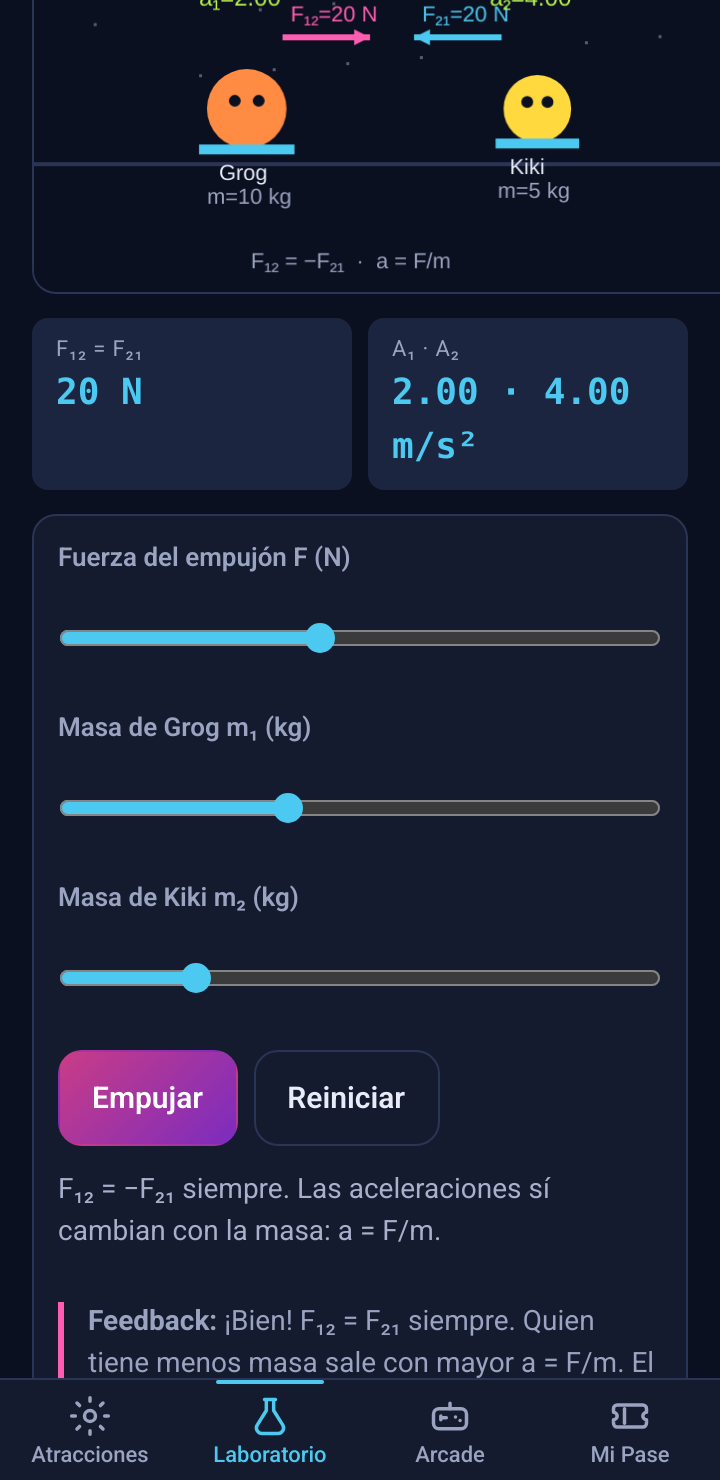
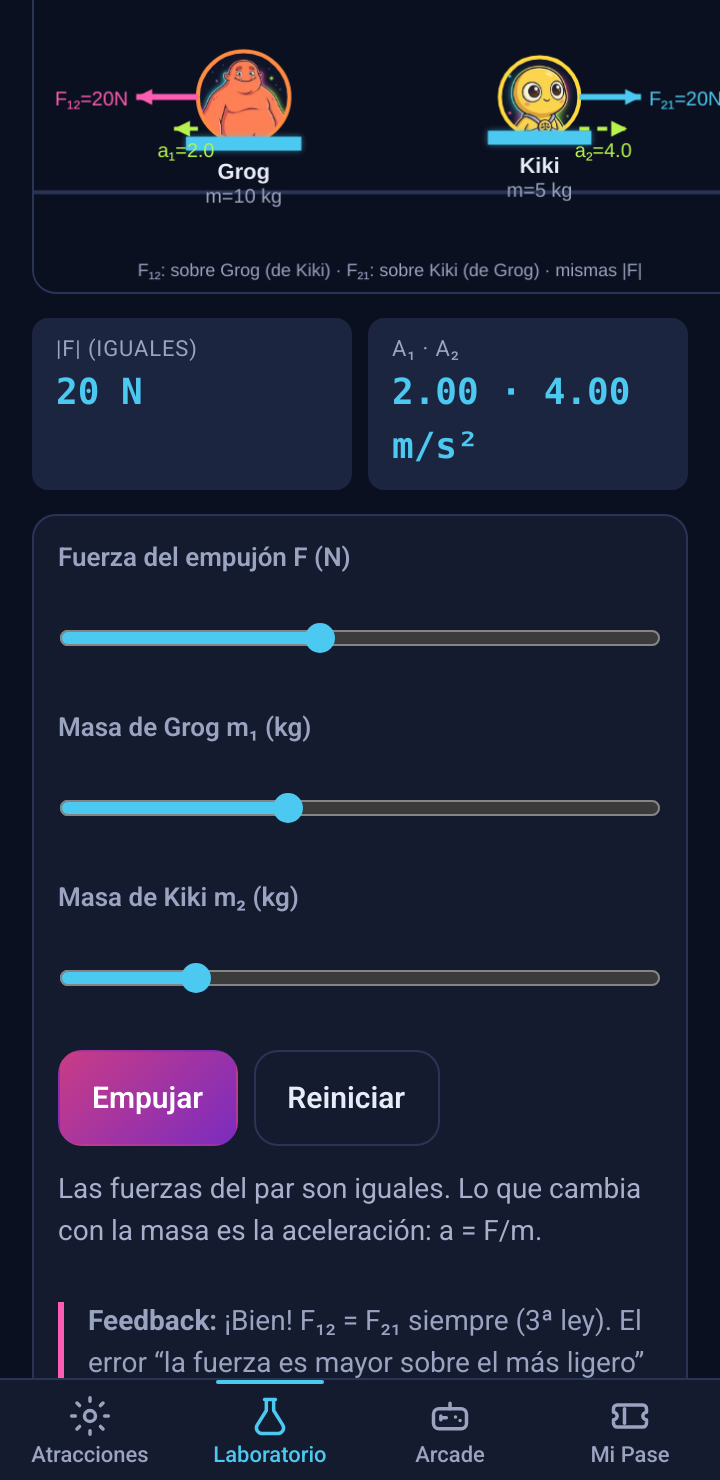
F7: fix vectores par acción-reacción
Fuerzas ancladas al cuerpo y hacia afuera (empuje), misma |F|; a en lima
dashed ∝ F/m; bustos Grog/Kiki en círculo; leyenda F₁₂/F₂₁; feedback
contradice “más fuerza sobre el liviano”; sin clip a 360px.

diff --git a/src/modules/laboratorio/sims/par-accion-reaccion.js b/src/modules/laboratorio/sims/par-accion-reaccion.js
@@ -3,18 +3,21 @@ import { playSuccess, playFail, playStar } from '../../../audio/engine.js';
 
 /**
  * sim-par-accion-reaccion — 3ª ley de Newton + vectores (PF2 / M1).
- * Grog y Kiki en hover-skates: fuerzas iguales y opuestas; a = F/m distinta si m distinta.
+ * Grog (izq) y Kiki (der) se empujan: fuerzas iguales y opuestas hacia AFUERA;
+ * a = F/m distinta si las masas difieren.
  * @param {HTMLElement} container
  * @returns {() => void}
  */
 export function mountParAccionReaccion(container) {
+  const base = import.meta.env.BASE_URL || '/';
+
   container.innerHTML = `
     <div class="sim-layout">
-      <div class="sim-canvas-wrap" style="min-width:360px">
+      <div class="sim-canvas-wrap sim-canvas-wrap--tall" style="min-width:360px;aspect-ratio:16/12;max-height:48vh">
         <canvas data-canvas aria-label="Par acción-reacción: Grog y Kiki se empujan"></canvas>
       </div>
       <div class="hud-stats">
-        <div class="hud-stat"><div class="hud-stat__label">F₁₂ = F₂₁</div><div class="hud-stat__value" data-f>20 N</div></div>
+        <div class="hud-stat"><div class="hud-stat__label">|F| (iguales)</div><div class="hud-stat__value" data-f>20 N</div></div>
         <div class="hud-stat"><div class="hud-stat__label">a₁ · a₂</div><div class="hud-stat__value" data-a>2.00 · 4.00 m/s²</div></div>
       </div>
       <div class="sim-controls">
@@ -44,7 +47,7 @@ export function mountParAccionReaccion(container) {
           <button type="button" class="btn btn-primary" data-push disabled>Empujar</button>
           <button type="button" class="btn btn-ghost" data-reset>Reiniciar</button>
         </div>
-        <p class="text-muted" data-hint>F₁₂ = −F₂₁ siempre. Las aceleraciones sí cambian con la masa: a = F/m.</p>
+        <p class="text-muted" data-hint>Las fuerzas del par son iguales. Lo que cambia con la masa es la aceleración: a = F/m.</p>
         <div class="stars-award" data-stars aria-live="polite"></div>
         <p class="theory-p theory-p--warn" data-feedback style="display:none"></p>
       </div>
@@ -63,6 +66,21 @@ export function mountParAccionReaccion(container) {
   const feedbackEl = container.querySelector('[data-feedback]');
   const pushBtn = container.querySelector('[data-push]');
   const predMsg = container.querySelector('[data-pred-msg]');
+
+  /** @type {HTMLImageElement} */
+  const imgGrog = new Image();
+  /** @type {HTMLImageElement} */
+  const imgKiki = new Image();
+  let grogReady = false;
+  let kikiReady = false;
+  imgGrog.onload = () => {
+    grogReady = true;
+  };
+  imgKiki.onload = () => {
+    kikiReady = true;
+  };
+  imgGrog.src = `${base}assets/aliens/busto-grog-256.webp`;
+  imgKiki.src = `${base}assets/aliens/busto-kiki-256.webp`;
 
   let F = 20;
   let m1 = 10;
@@ -102,19 +120,32 @@ export function mountParAccionReaccion(container) {
     ctx.setTransform(dpr, 0, 0, dpr, 0, 0);
   }
 
-  function drawArrow(x0, y0, x1a, y1a, color, label) {
+  /**
+   * Flecha de x0→x1. Label debajo o encima según preferencia.
+   * @param {'above'|'below'} labelSide
+   */
+  function drawArrow(x0, y0, x1a, y1a, color, label, {
+    dashed = false,
+    lineWidth = 3,
+    labelSide = 'below',
+    canvasW = 360,
+    canvasH = 200,
+  } = {}) {
     const dx = x1a - x0;
     const dy = y1a - y0;
     const len = Math.hypot(dx, dy) || 1;
     const ux = dx / len;
     const uy = dy / len;
+    ctx.save();
     ctx.strokeStyle = color;
     ctx.fillStyle = color;
-    ctx.lineWidth = 3;
+    ctx.lineWidth = lineWidth;
+    if (dashed) ctx.setLineDash([5, 4]);
     ctx.beginPath();
     ctx.moveTo(x0, y0);
     ctx.lineTo(x1a, y1a);
     ctx.stroke();
+    ctx.setLineDash([]);
     const ah = 8;
     ctx.beginPath();
     ctx.moveTo(x1a, y1a);
@@ -122,29 +153,82 @@ export function mountParAccionReaccion(container) {
     ctx.lineTo(x1a - ux * ah + uy * ah * 0.5, y1a - uy * ah - ux * ah * 0.5);
     ctx.closePath();
     ctx.fill();
-    ctx.font = '11px sans-serif';
-    ctx.fillText(label, (x0 + x1a) / 2 - 18, y0 - 8);
+    if (label) {
+      ctx.font = '10px sans-serif';
+      const tw = ctx.measureText(label).width;
+      let lx;
+      let ly;
+      if (labelSide === 'tip-out') {
+        // etiqueta junto a la punta, hacia afuera (no arriba → sin clip superior)
+        lx = ux < 0 ? x1a - tw - 4 : x1a + 4;
+        ly = y0 + 4;
+      } else if (labelSide === 'above') {
+        lx = (x0 + x1a) / 2 - tw / 2;
+        ly = Math.max(12, y0 - 6);
+      } else {
+        lx = (x0 + x1a) / 2 - tw / 2;
+        ly = y0 + 14;
+      }
+      lx = Math.max(2, Math.min(canvasW - tw - 2, lx));
+      ly = Math.max(11, Math.min(canvasH - 4, ly));
+      ctx.fillText(label, lx, ly);
+    }
+    ctx.restore();
   }
 
-  function drawAlien(cx, cy, color, label, mass) {
-    const r = 14 + mass * 0.6;
+  function bodyRadius(mass) {
+    return Math.max(20, Math.min(30, 14 + mass * 0.9));
+  }
+
+  /**
+   * Busto recortado en círculo + hover-skate; fallback = círculo de color.
+   */
+  function drawAlien(cx, cy, color, label, mass, img, imgReady) {
+    const r = bodyRadius(mass);
+    ctx.save();
     ctx.beginPath();
     ctx.arc(cx, cy, r, 0, Math.PI * 2);
-    ctx.fillStyle = color;
-    ctx.fill();
-    ctx.fillStyle = '#0b1020';
+    ctx.closePath();
+    ctx.clip();
+    if (imgReady && img.complete && img.naturalWidth > 0) {
+      ctx.drawImage(img, cx - r, cy - r, r * 2, r * 2);
+    } else {
+      ctx.fillStyle = color;
+      ctx.fillRect(cx - r, cy - r, r * 2, r * 2);
+      ctx.fillStyle = '#0b1020';
+      ctx.beginPath();
+      ctx.arc(cx - r * 0.3, cy - r * 0.15, 3.5, 0, Math.PI * 2);
+      ctx.arc(cx + r * 0.3, cy - r * 0.15, 3.5, 0, Math.PI * 2);
+      ctx.fill();
+    }
+    ctx.restore();
+
+    // ring
+    ctx.strokeStyle = color;
+    ctx.lineWidth = 2;
     ctx.beginPath();
-    ctx.arc(cx - r * 0.3, cy - r * 0.2, 3, 0, Math.PI * 2);
-    ctx.arc(cx + r * 0.3, cy - r * 0.2, 3, 0, Math.PI * 2);
-    ctx.fill();
-    // skate
+    ctx.arc(cx, cy, r, 0, Math.PI * 2);
+    ctx.stroke();
+
+    // hover-skate
     ctx.fillStyle = '#4CC9F0';
-    ctx.fillRect(cx - r - 4, cy + r - 2, r * 2 + 8, 5);
+    ctx.shadowColor = 'rgba(76,201,240,0.55)';
+    ctx.shadowBlur = 6;
+    ctx.fillRect(cx - r - 6, cy + r - 3, r * 2 + 12, 7);
+    ctx.shadowBlur = 0;
+
+    // name + mass under body (nunca arriba → sin clip)
     ctx.fillStyle = '#e8ecf8';
-    ctx.font = '11px sans-serif';
-    ctx.fillText(label, cx - 14, cy + r + 16);
+    ctx.font = 'bold 11px sans-serif';
+    const nameW = ctx.measureText(label).width;
+    ctx.fillText(label, cx - nameW / 2, cy + r + 18);
     ctx.fillStyle = '#9aa3c0';
-    ctx.fillText(`m=${mass} kg`, cx - 20, cy + r + 28);
+    ctx.font = '10px sans-serif';
+    const massLabel = `m=${mass} kg`;
+    const mw = ctx.measureText(massLabel).width;
+    ctx.fillText(massLabel, cx - mw / 2, cy + r + 30);
+
+    return r;
   }
 
   function draw() {
@@ -157,12 +241,13 @@ export function mountParAccionReaccion(container) {
     // starfield
     ctx.fillStyle = 'rgba(232,236,248,0.35)';
     for (let i = 0; i < 28; i++) {
-      const sx = ((i * 97) % w);
-      const sy = ((i * 53) % (h * 0.55));
+      const sx = (i * 97) % w;
+      const sy = 12 + ((i * 53) % Math.max(1, h * 0.4));
       ctx.fillRect(sx, sy, 1.5, 1.5);
     }
 
-    const ground = h * 0.72;
+    // ground leaves room under bodies for name/mass; top margin for force arrows
+    const ground = h * 0.82;
     ctx.strokeStyle = '#2a3555';
     ctx.lineWidth = 2;
     ctx.beginPath();
@@ -171,31 +256,64 @@ export function mountParAccionReaccion(container) {
     ctx.stroke();
 
     const mid = w * 0.5;
-    const scale = Math.min(18, (w - 80) / 40);
-    const base1 = mid - 70;
-    const base2 = mid + 70;
+    const scale = Math.min(12, (w - 110) / 40);
+    // inset so outward arrows + tip labels fit at 360px
+    const inset = 88;
+    const base1 = Math.max(inset, mid - 72);
+    const base2 = Math.min(w - inset, mid + 72);
     const gX = base1 - x1 * scale;
     const kX = base2 + x2 * scale;
-    const cy = ground - 28;
+    const cy = ground - 48;
 
-    drawAlien(gX, cy, '#FF8C42', 'Grog', m1);
-    drawAlien(kX, cy, '#FFD93D', 'Kiki', m2);
+    const r1 = drawAlien(gX, cy, '#FF8C42', 'Grog', m1, imgGrog, grogReady);
+    const r2 = drawAlien(kX, cy, '#FFD93D', 'Kiki', m2, imgKiki, kikiReady);
 
-    // Equal-length opposite force arrows (same pixel length regardless of mass)
-    const arrowLen = Math.min(70, 20 + F * 1.2);
-    const ay = cy - 36;
-    drawArrow(gX + 18, ay, gX + 18 + arrowLen, ay, '#FF5DB1', `F₁₂=${F} N`);
-    drawArrow(kX - 18, ay, kX - 18 - arrowLen, ay, '#4CC9F0', `F₂₁=${F} N`);
+    // ——— Fuerzas del par: misma longitud, sentidos OPUESTOS hacia AFUERA ———
+    // Empujón: F sobre Grog (de Kiki) → izquierda; F sobre Kiki (de Grog) → derecha.
+    // F₁₂ = fuerza sobre 1 (Grog) por 2 (Kiki); F₂₁ = sobre 2 por 1.
+    // Fuerzas ancladas al borde del cuerpo, hacia AFUERA; etiqueta en la punta (tip-out)
+    const forceLen = Math.min(44, 16 + F * 0.75); // misma px para ambos
+    const fy = cy;
 
-    // a labels
-    ctx.fillStyle = '#B7F34C';
-    ctx.font = '12px sans-serif';
-    ctx.fillText(`a₁=${a1.toFixed(2)}`, gX - 24, cy - 52);
-    ctx.fillText(`a₂=${a2.toFixed(2)}`, kX - 24, cy - 52);
+    // Grog: desde borde izquierdo → IZQUIERDA (afuera)
+    drawArrow(gX - r1, fy, gX - r1 - forceLen, fy, '#FF5DB1', `F₁₂=${F}N`, {
+      labelSide: 'tip-out',
+      canvasW: w,
+      canvasH: h,
+    });
+    // Kiki: desde borde derecho → DERECHA (afuera)
+    drawArrow(kX + r2, fy, kX + r2 + forceLen, fy, '#4CC9F0', `F₂₁=${F}N`, {
+      labelSide: 'tip-out',
+      canvasW: w,
+      canvasH: h,
+    });
 
+    // Aceleraciones: lima dashed, largo ∝ a, misma dirección; etiqueta abajo del eje
+    const aScale = 6;
+    const aLen1 = Math.min(52, Math.max(12, a1 * aScale));
+    const aLen2 = Math.min(52, Math.max(12, a2 * aScale));
+    const ay = cy + 16;
+    drawArrow(gX - r1, ay, gX - r1 - aLen1, ay, '#B7F34C', `a₁=${a1.toFixed(1)}`, {
+      dashed: true,
+      lineWidth: 2,
+      labelSide: 'below',
+      canvasW: w,
+      canvasH: h,
+    });
+    drawArrow(kX + r2, ay, kX + r2 + aLen2, ay, '#B7F34C', `a₂=${a2.toFixed(1)}`, {
+      dashed: true,
+      lineWidth: 2,
+      labelSide: 'below',
+      canvasW: w,
+      canvasH: h,
+    });
+
+    // Leyenda (pie del canvas, sin clip)
     ctx.fillStyle = '#9aa3c0';
-    ctx.font = '11px sans-serif';
-    ctx.fillText('F₁₂ = −F₂₁  ·  a = F/m', mid - 70, h - 10);
+    ctx.font = '9px sans-serif';
+    const legend = 'F₁₂: sobre Grog (de Kiki) · F₂₁: sobre Kiki (de Grog) · mismas |F|';
+    const lw = ctx.measureText(legend).width;
+    ctx.fillText(legend, Math.max(4, mid - lw / 2), h - 6);
   }
 
   function tick(now) {
@@ -222,17 +340,18 @@ export function mountParAccionReaccion(container) {
   function explainPrediction() {
     const faster = m1 < m2 ? 'grog' : m2 < m1 ? 'kiki' : 'igual';
     let msg = '';
+    // Misconception a contradecir: “la fuerza es mayor sobre el más ligero” / “la fuerza mayor gana”
     if (prediction === 'igual') {
       msg =
-        'Casi: las fuerzas son iguales (3ª ley), pero la aceleración es a = F/m. Quien tenga menos masa acelera más. No gana “la fuerza mayor”: las dos fuerzas son la misma.';
+        'Casi: las fuerzas del par son iguales (misma longitud de flecha). No es que “haya más fuerza sobre el ligero”: lo que cambia es la aceleración, a = F/m. Quien tenga menos masa acelera más.';
       predictedOk = false;
-    } else if (prediction === faster || (faster === 'igual' && prediction === 'igual')) {
+    } else if (prediction === faster) {
       msg =
-        '¡Bien! F₁₂ = F₂₁ siempre. Quien tiene menos masa sale con mayor a = F/m. El error común “la fuerza mayor gana” no aplica: aquí las fuerzas son iguales.';
+        '¡Bien! F₁₂ = F₂₁ siempre (3ª ley). El error “la fuerza es mayor sobre el más ligero” es falso: las fuerzas son iguales; lo que cambia es a = F/m. Por eso el de menos masa sale más rápido.';
       predictedOk = true;
     } else {
       msg =
-        'Ojo: las fuerzas del par son iguales y opuestas (misma longitud de flecha). Acelera más quien tiene menos masa. “La fuerza mayor gana” es el error que hay que dejar atrás.';
+        'Ojo: no gana “quien recibe más fuerza”. En el par, las dos fuerzas son iguales y opuestas. Acelera más quien tiene menos masa (a = F/m). El mito “la fuerza es mayor sobre el más ligero” hay que dejarlo atrás.';
       predictedOk = false;
     }
     feedbackEl.style.display = 'block';
@@ -245,7 +364,6 @@ export function mountParAccionReaccion(container) {
     let stars = 1;
     if (predictedOk) stars = 2;
     if (predictedOk && Math.abs(m1 - m2) >= 3) stars = 3;
-    // Also require having seen unequal masses
     if (m1 === m2 && predictedOk) stars = Math.min(stars, 2);
 
     if (stars > awarded) {
